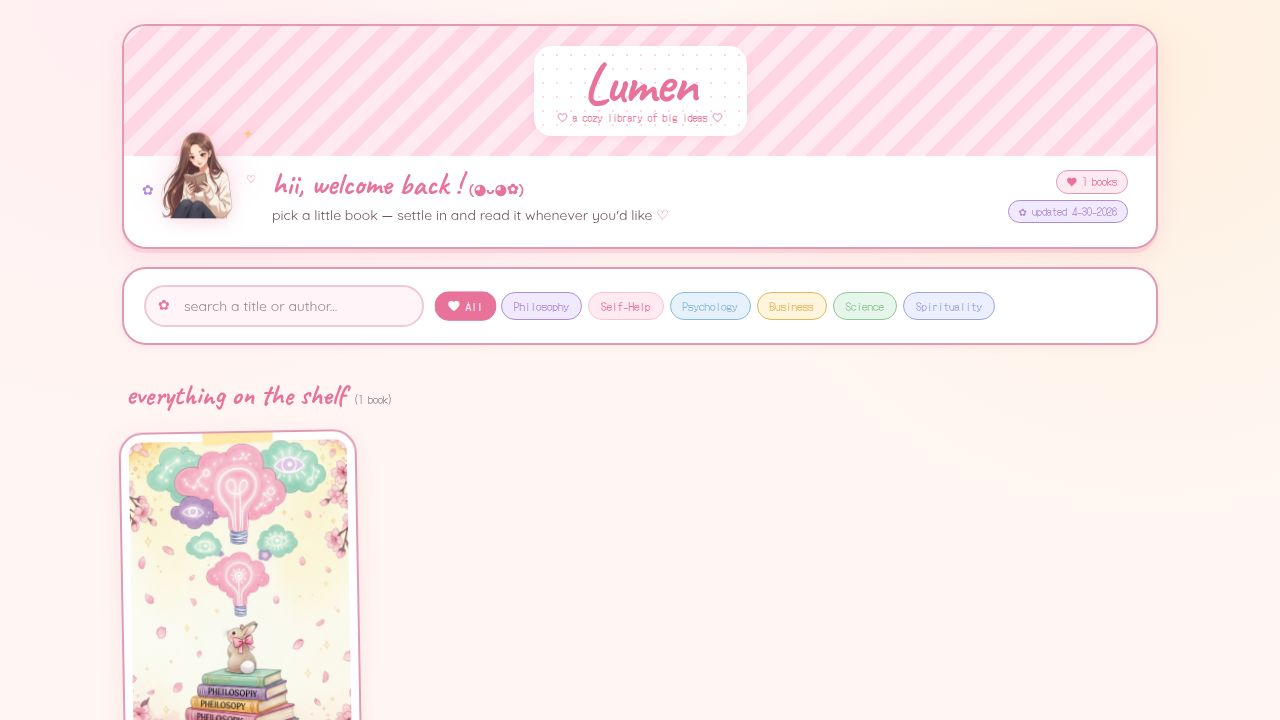
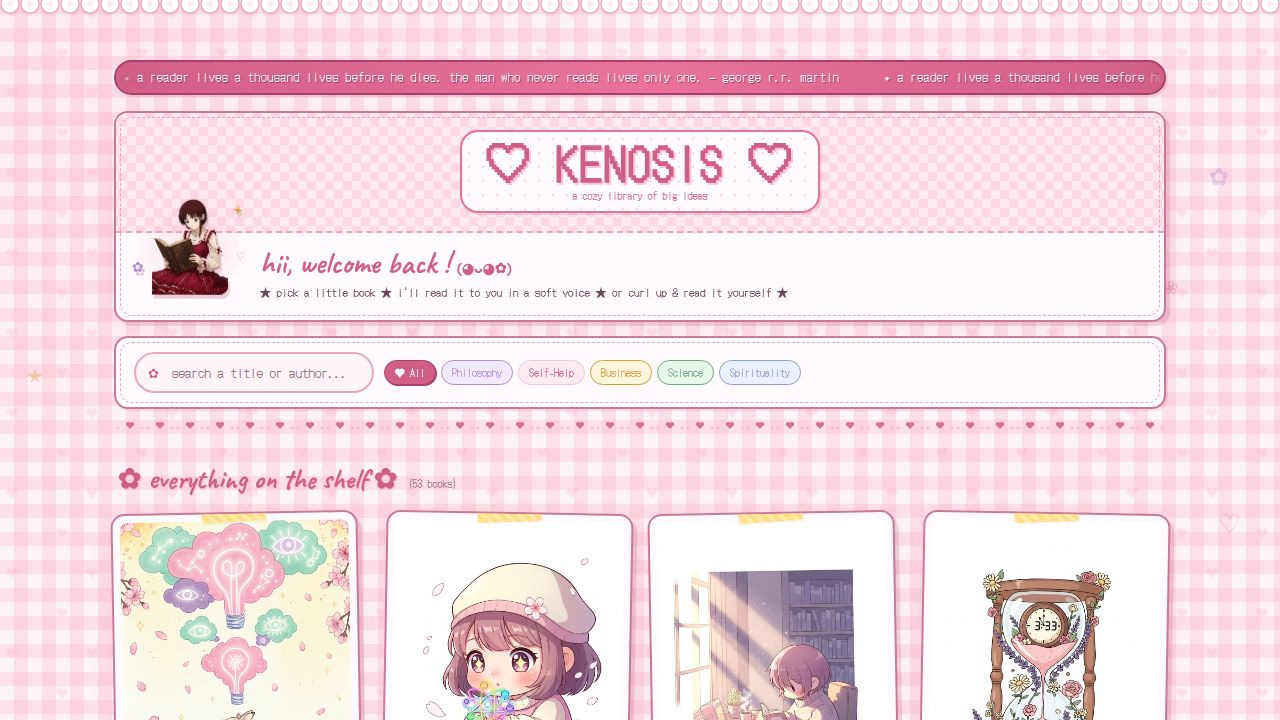
Update website name and add new books to the library
Renames 'Lumen' to 'Kenosis', 'Lumi' to 'Lain', adds the 'Spirituality' category, and incorporates three new book entries into the `books.json` data.

Replit-Commit-Author: Agent
Replit-Commit-Session-Id: 7f99f383-4ac1-4347-9dd7-ca7e370ff2f7
Replit-Commit-Checkpoint-Type: full_checkpoint
Replit-Commit-Event-Id: 650b08c4-0daa-4686-9136-5063ecf43582
Replit-Commit-Screenshot-Url: https://storage.googleapis.com/screenshot-production-us-central1/324d351b-b6b1-4c2f-80ae-96844a0d7d37/7f99f383-4ac1-4347-9dd7-ca7e370ff2f7/UZQJkY4
Replit-Helium-Checkpoint-Created: true

diff --git a/artifacts/lumen-library/app.js b/artifacts/lumen-library/app.js
@@ -1,5 +1,5 @@
 /* ============================================================
-   LUMEN — vanilla JS app
+   KENOSIS — vanilla JS app
    Static site with hash routing.
 
    Routes:
@@ -9,7 +9,7 @@
      #/book/:id/listen       → listen mode (browser SpeechSynthesis)
    ============================================================ */
 
-const CATEGORIES = ["All", "Philosophy", "Self-Help", "Business", "Science"];
+const CATEGORIES = ["All", "Philosophy", "Self-Help", "Business", "Science", "Spirituality"];
 
 const state = {
   books: [],
@@ -64,7 +64,7 @@ function initCursorSparkle() {
 function avatarHTML(size = 96) {
   return `
     <div class="avatar" style="width:${size}px;height:${size}px;">
-      <img src="avatar/girl-reading.png" alt="Lumi the reading companion" />
+      <img src="avatar/girl-reading.png" alt="Lain the reading companion" />
       <span class="sparkle s1">✦</span>
       <span class="sparkle s2">✿</span>
       <span class="sparkle s3">♡</span>
@@ -170,7 +170,7 @@ function marqueeHTML() {
    HOME PAGE
    ============================================================ */
 function renderHome() {
-  document.title = "Lumen ✿ a cozy library of big ideas";
+  document.title = "Kenosis ✿ a cozy library of big ideas";
 
   const filtered = state.books.filter((b) => {
     const matchesCat = state.category === "All" || b.category === state.category;
@@ -191,7 +191,7 @@ function renderHome() {
       <header class="banner">
         <div class="banner-stripes">
           <div class="banner-title-pill">
-            <h1>♡ LUMEN ♡</h1>
+            <h1>♡ KENOSIS ♡</h1>
             <p>a cozy library of big ideas</p>
           </div>
         </div>
@@ -364,7 +364,7 @@ function renderDetail(id) {
   const book = state.books.find((b) => b.id === id);
   if (!book) return renderNotFound();
 
-  document.title = `${book.title} ♡ Lumen`;
+  document.title = `${book.title} ♡ Kenosis`;
 
   app.innerHTML = `
     <div class="lace-strip" aria-hidden="true"></div>
@@ -388,13 +388,13 @@ function renderDetail(id) {
             </a>
             <a class="action-btn listen" href="#/book/${encodeURIComponent(book.id)}/listen">
               <span class="ico">🎧</span>
-              <span>listen with lumi ♥</span>
+              <span>listen with lain ♥</span>
             </a>
 
             <div class="narrator-card">
               ${avatarHTML(56)}
               <div class="text">
-                <p>narrated by lumi</p>
+                <p>narrated by lain</p>
                 <p>soft voice, lots of feelings (◕‿◕)</p>
               </div>
             </div>
@@ -433,7 +433,7 @@ function renderRead(id) {
   const book = state.books.find((b) => b.id === id);
   if (!book) return renderNotFound();
 
-  document.title = `Reading ♡ ${book.title} — Lumen`;
+  document.title = `Reading ♡ ${book.title} — Kenosis`;
 
   const wordCount = (book.summarySections || []).reduce(
     (acc, sec) => acc + (sec.paragraphs || []).reduce((a, p) => a + p.split(/\s+/).length, 0),
@@ -535,7 +535,7 @@ function renderListen(id) {
   const book = state.books.find((b) => b.id === id);
   if (!book) return renderNotFound();
 
-  document.title = `Listening ♡ ${book.title} — Lumen`;
+  document.title = `Listening ♡ ${book.title} — Kenosis`;
 
   const supportsSpeech =
     typeof window !== "undefined" && "speechSynthesis" in window && "SpeechSynthesisUtterance" in window;
@@ -740,7 +740,7 @@ function stopPlayback() {
 }
 
 function renderNotFound() {
-  document.title = "Not found ♡ Lumen";
+  document.title = "Not found ♡ Kenosis";
   app.innerHTML = `
     <div class="container page-fade">
       <a class="back-link pill" href="#/">← back to library</a>

diff --git a/artifacts/lumen-library/index.html b/artifacts/lumen-library/index.html
@@ -3,8 +3,8 @@
   <head>
     <meta charset="UTF-8" />
     <meta name="viewport" content="width=device-width, initial-scale=1.0" />
-    <meta name="description" content="Lumen — a cozy library of big ideas. Browse hand-picked book summaries with a soft, charming reading companion." />
-    <title>Lumen ✿ a cozy library of big ideas</title>
+    <meta name="description" content="Kenosis — a cozy library of big ideas. Browse hand-picked book summaries with a soft, charming reading companion." />
+    <title>Kenosis ✿ a cozy library of big ideas</title>
     <link rel="icon" type="image/svg+xml" href="favicon.svg" />
     <link rel="preconnect" href="https://fonts.googleapis.com" />
     <link rel="preconnect" href="https://fonts.gstatic.com" crossorigin />
